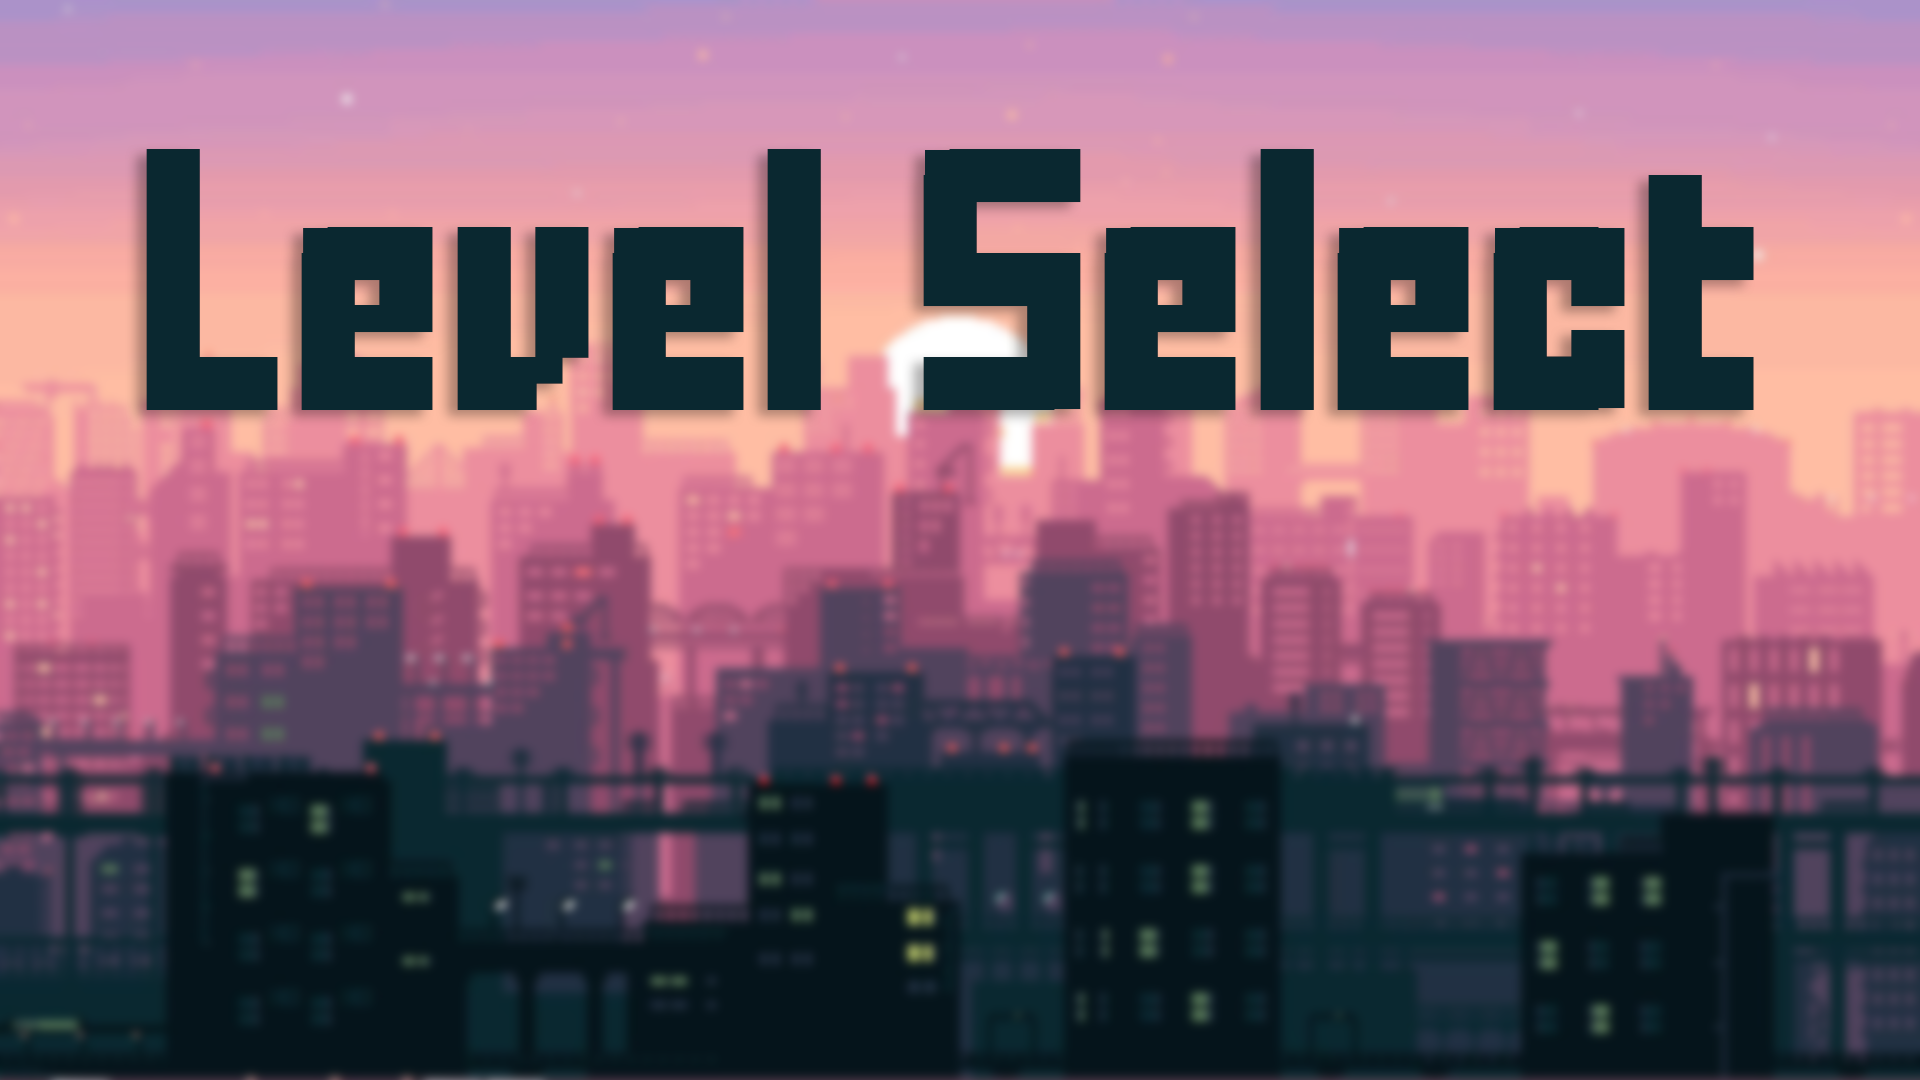
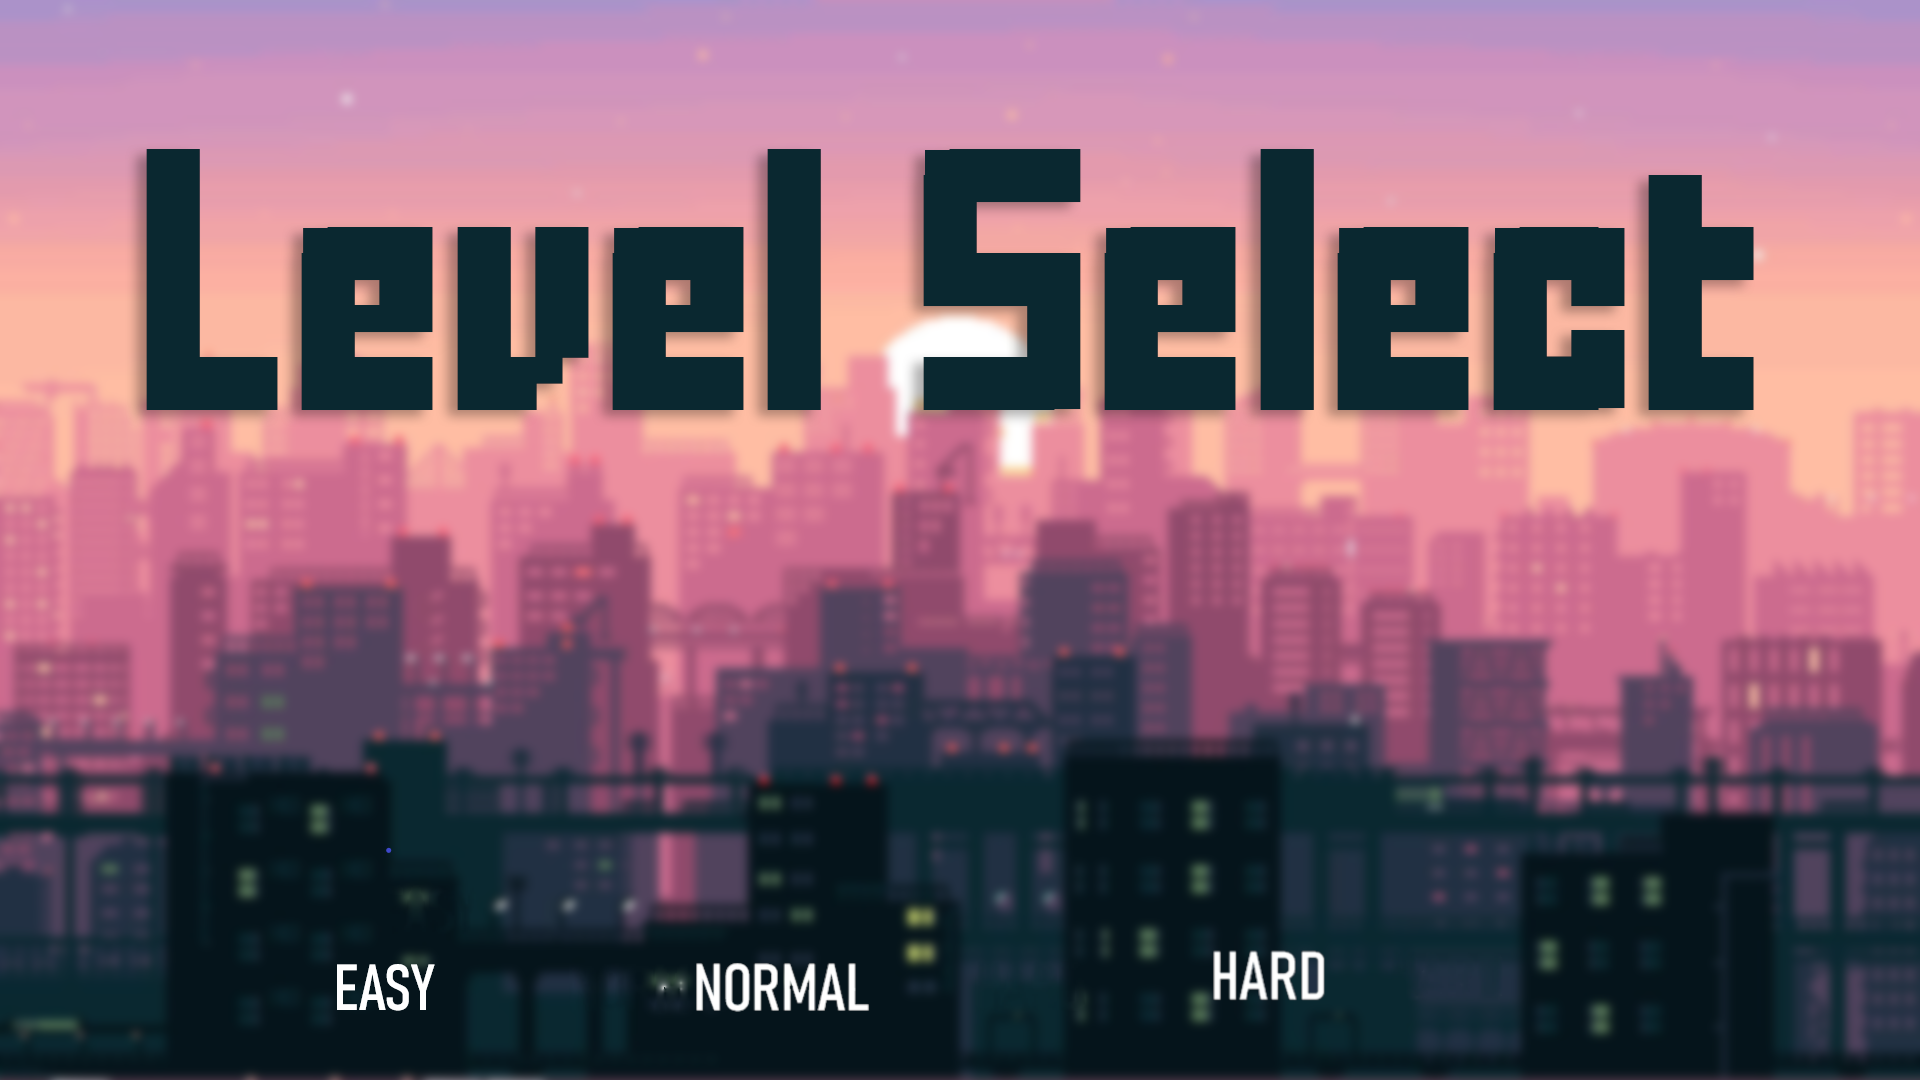
Added Difficulty Select to the Game. Balancing needs work but functionality is there

Changed region(s): [[0.3438, 0.8861, 0.4688, 0.9472], [0.625, 0.8556, 0.6875, 0.9472], [0.1562, 0.8861, 0.2188, 0.9472]]

diff --git a/core/src/com/mygdx/game/states/PlayState.java b/core/src/com/mygdx/game/states/PlayState.java
@@ -138,6 +138,8 @@ public class PlayState extends State {
         Vector2 firetruck3pos = null;
         Vector2 firetruck4pos = null;
 
+        // Assessment 4 - Added Kroy.difficultyMultiplier to fortresses.
+
         if (levelNumber == 1) { // Bottom left coordinate of map --> (33, 212) Each grid square = 32px
 
         	gameMap = new TiledGameMap("level1map.tmx");
@@ -154,7 +156,7 @@ public class PlayState extends State {
 
             // Level 1 Fortress
             fortress = new Fortress(new Vector2(33 + 24 * 32, 212 + 22 * 32), 6 * 32, 4 * 32,
-                    new Texture("grey.png"), 10000, 1.5f, levelNumber);
+                    new Texture("grey.png"), (int)(Kroy.difficultyMultiplier * 10000), 1.5f, levelNumber);
         }
 
         else if (levelNumber == 2) {
@@ -175,7 +177,7 @@ public class PlayState extends State {
 
             // Level 2 Fortress
             fortress = new Fortress(new Vector2(33 + 36 * 32, 212 + 19 * 32), 4 * 32, 4 * 32, new Texture("grey.png"),
-                    12500, 4, levelNumber);
+                    (int)(Kroy.difficultyMultiplier * 12500), 4, levelNumber);
         }
 
         else if (levelNumber == 3) {
@@ -194,7 +196,7 @@ public class PlayState extends State {
 
             // Level 3 Fortress
             fortress = new Fortress(new Vector2(33 + 24*32, 212 + 32*21), 224, 96, new Texture("grey.png"),
-                    15000, 2, levelNumber);
+                    (int)(Kroy.difficultyMultiplier * 15000), 2, levelNumber);
         }
 
 
@@ -214,7 +216,7 @@ public class PlayState extends State {
 
             // Level 4 Fortress
             fortress = new Fortress(new Vector2(33 + 24*32, 212 + 32*21), 224, 96, new Texture("grey.png"),
-                    15000, 2, levelNumber);
+                    (int)(Kroy.difficultyMultiplier * 15000), 2, levelNumber);
         }
 
 
@@ -234,7 +236,7 @@ public class PlayState extends State {
 
             // Level 5 Fortress
             fortress = new Fortress(new Vector2(33 + 4 * 32, 212 + 14 * 32), 4*32, 3*32, new Texture("grey.png"),
-                    15000, 2, levelNumber);
+                    (int)(Kroy.difficultyMultiplier * 15000), 2, levelNumber);
         }
 
 
@@ -254,7 +256,7 @@ public class PlayState extends State {
 
             // Level 3 Fortress
             fortress = new Fortress(new Vector2(33 + 24 * 32, 212 + 32 * 21), 224, 96, new Texture("grey.png"),
-                    15000, 2, levelNumber);
+                    (int)(Kroy.difficultyMultiplier * 15000), 2, levelNumber);
         }
 
 
@@ -265,13 +267,13 @@ public class PlayState extends State {
                 null, 100, 2,  175, true);
         firetruck2 = new Firetruck(firetruck2pos, 25,25,
                 new Texture("truck.png"), 100, 200,
-                null, 100, 2,  175, false);
+                null, 100,  2,  175, false);
         firetruck3 = new Firetruck(firetruck3pos, 25,25,
                 new Texture("truck.png"), 100, 100,
                 null, 200, 2,  175, false);
         firetruck4 = new Firetruck(firetruck4pos, 25,25,
                 new Texture("truck.png"), 100, 100,
-                null, 100, 4,  175, false);
+                null, 100,  4,  175, false);
 
         firetrucks.add(firetruck1);
         firetrucks.add(firetruck2);

diff --git a/core/src/com/mygdx/game/states/LevelSelectState.java b/core/src/com/mygdx/game/states/LevelSelectState.java
@@ -65,6 +65,17 @@ public class LevelSelectState extends State{
     private Texture NotPressedBlueTexture5 = new Texture("NotPressedBlue5.png");
     private Texture NotPressedBlueTexture6 = new Texture("NotPressedBlue6.png");
 
+    // Assesment 4
+    private Texture tick;
+    private Texture cross;
+    private Button easy;
+    private Button normal;
+    private Button hard;
+    final double EASY = 0.5;
+    final double NORMAL = 1;
+    final double HARD = 2;
+
+
 
     //TODO: Difficulty Select, Tick Boxes at bottom of screen, Some sort of global multiplier for health, damage etc.
     protected LevelSelectState(GameStateManager gameStateManager) {
@@ -104,6 +115,18 @@ public class LevelSelectState extends State{
                 true);
 
         buttons = new ArrayList<>(Arrays.asList(level1, level2, level3, level4, level5, level6, back));
+
+        // Assessment 4
+        tick = new Texture("tick.png");
+        cross = new Texture("cross.png");
+
+        easy = new Button(tick, cross, 100, 100, new Vector2(Kroy.WIDTH / 2  - 500, 50), true, false);
+        normal = new Button(tick, cross, 100, 100, new Vector2(Kroy.WIDTH / 2 - 350 / 2 + 125, 50), false, true);
+        hard = new Button(tick, cross, 100, 100, new Vector2(Kroy.WIDTH / 2 + 350 / 2 + 225  , 50), false, true);
+
+        buttons.add(easy);
+        buttons.add(normal);
+        buttons.add(hard);
     }
 
     /**
@@ -203,6 +226,34 @@ public class LevelSelectState extends State{
         else {
             level6.setActive(false);
         }
+
+        // Assessment 4
+        if(easy.mouseInRegion()){
+            if(Gdx.input.isTouched()) {
+                easy.setActive(true);
+                normal.setActive(false);
+                hard.setActive(false);
+
+                Kroy.setDifficultyMultiplier(EASY);
+            }
+        }
+        else if(normal.mouseInRegion()){
+            if(Gdx.input.isTouched()) {
+                normal.setActive(true);
+                easy.setActive(false);
+                hard.setActive(false);
+
+                Kroy.setDifficultyMultiplier(NORMAL);
+            }
+        }
+        else if(hard.mouseInRegion()){
+            if(Gdx.input.isTouched()) {
+                hard.setActive(true);
+                normal.setActive(false);
+                easy.setActive(false);
+                Kroy.setDifficultyMultiplier(HARD);
+            }
+        }
     }
 
     /**
@@ -263,6 +314,7 @@ public class LevelSelectState extends State{
             level6.setOnTexture(PressedGreenTexture5);
             level6.setOffTexture(NotPressedGreenTexture5);
         }
+
     }
 
 
@@ -320,5 +372,9 @@ public class LevelSelectState extends State{
         NotPressedBlueTexture4.dispose();
         NotPressedBlueTexture5.dispose();
         NotPressedBlueTexture6.dispose();
+
+        // Assessment 4
+        tick.dispose();
+        cross.dispose();
     }
 }

diff --git a/core/src/com/mygdx/game/Kroy.java b/core/src/com/mygdx/game/Kroy.java
@@ -28,6 +28,10 @@ public class Kroy extends ApplicationAdapter {
 	private SpriteBatch batch;
 	private Preferences saveData;
 
+	// Assesment 4
+	public static double difficultyMultiplier;
+	public static void setDifficultyMultiplier(double diff) {difficultyMultiplier = diff;}
+
 	/**
 	 * Initializes the game. During the start of the game loop thread, create() will be called only once.
 	 */
@@ -41,6 +45,7 @@ public class Kroy extends ApplicationAdapter {
 		Gdx.gl.glClearColor(0, 0, 1, 1);
 		gameStateManager.push(new MenuState(gameStateManager)); // Initializes game with menu state
 		saveData = Gdx.app.getPreferences("Kroy");
+		difficultyMultiplier = 0.5;
 
 		if (saveData.getBoolean("music", true)) { // If no value for "music" exists in save data, set to true
 			saveData.putBoolean("music", true);
@@ -68,4 +73,6 @@ public class Kroy extends ApplicationAdapter {
 	public void dispose () {
 		batch.dispose();
 	}
+
+	public double getDifficultyMultiplier(){return this.difficultyMultiplier;}
 }
